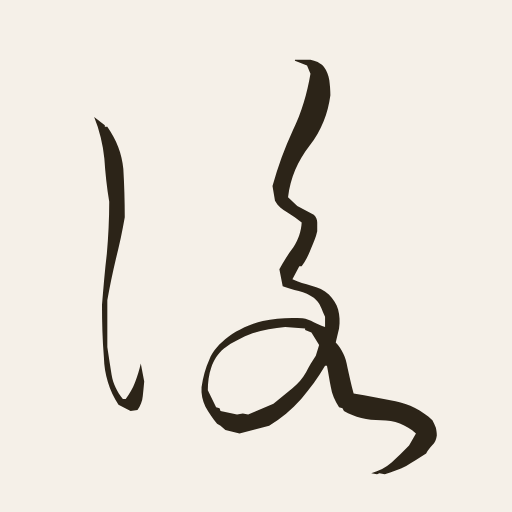
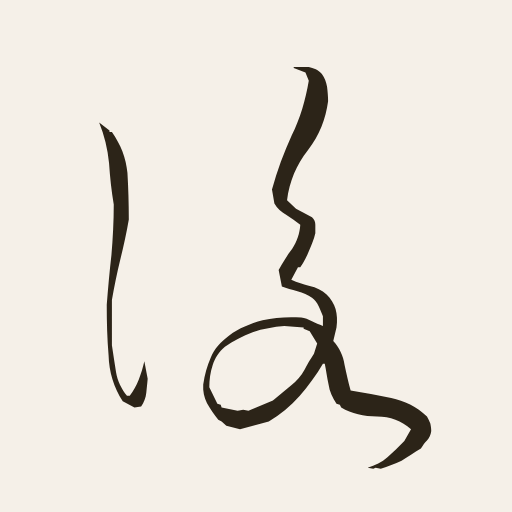
Updated store assets

diff --git a/scripts/generate-app-icons.js b/scripts/generate-app-icons.js
@@ -83,6 +83,6 @@ render(256, 'notification-icon.png', { charRatio: 0.92, bg: null, fg: '#000000' 
 // ===== ストア用アイコン (App Store / Play Store) =====
 // ストア表示はサムネイルで見られることが多く、小さく縮小されても字面が読める大きさにしたい。
 // safe area 制約は無いので草書の字面いっぱい（~0.95）に描く。
-render(512, 'icon.png', { charRatio: 0.95, outDir: STORE_ASSETS });
+render(512, 'icon.png', { charRatio: 0.92, outDir: STORE_ASSETS });
 
 console.log('done.');
